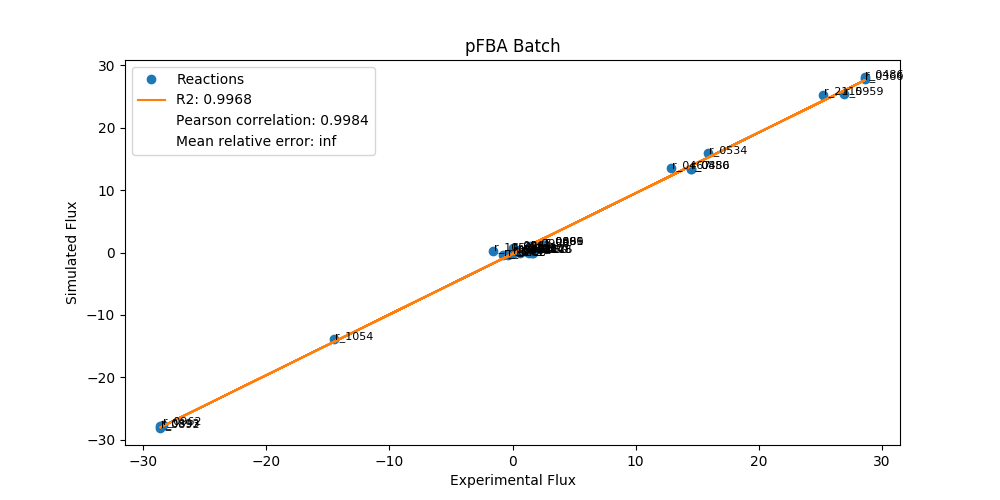
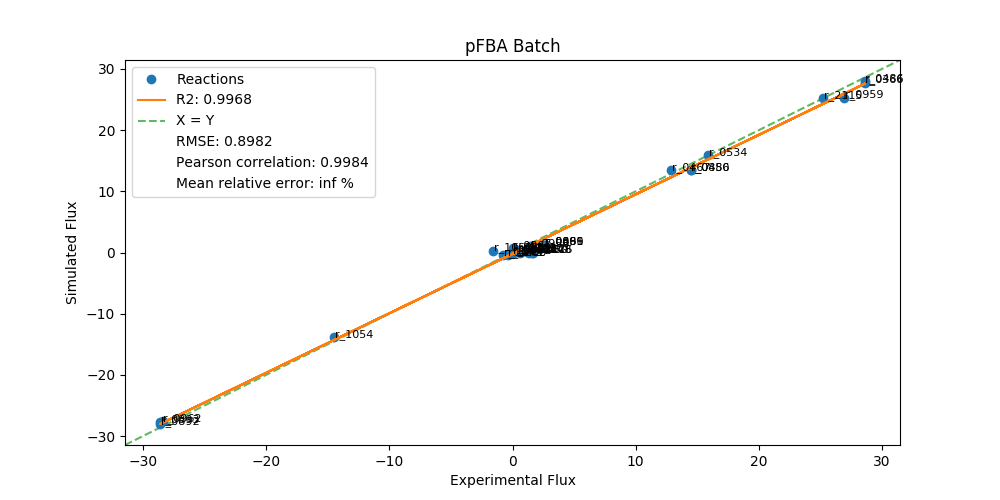
Updated report for case 9.

diff --git a/case_9.py b/case_9.py
@@ -102,30 +102,30 @@ class Case9 (PhenomenalySim):
 
         return res, df_exp_sim, df_exp_sim_errors
 
-    def plotExpVsSim (self, absRelErrorDataset, xlab = 'Experimental Flux', ylab = 'Simulated Flux', title = 'Wild Type', label_adjust = 0.05, save_fig_path = None):
-        plt.rcParams["figure.figsize"] = (10,5)
-
-        x = absRelErrorDataset.ix[:,0]
-        y = absRelErrorDataset.ix[:,1]
-        react_IDs = list(absRelErrorDataset.index)
-        slope, intercept, r_value, p_value, std_err = linregress(x, y)
-        line = [slope * x + intercept for x in x]
-        meanRelErr = absRelErrorDataset.ix[:,3].mean()
-        corr = x.corr(y)
-
-        plt.plot(x, y, 'o', x, line)
-        for ind, react_ID in enumerate(react_IDs):
-            plt.annotate(react_ID, (x[ind], y[ind]), fontsize = 8, xytext = (x[ind] + label_adjust, y[ind] + label_adjust))
-
-        plt.ylabel(ylab)
-        plt.xlabel(xlab)
-        plt.title(title)
-        plt.plot([], [], ' ') # To show correlation in legend
-        plt.plot([], [], ' ') # To show mean relative error in legend
-        plt.legend(['Reactions', 'R2: %.4f' % r_value**2, 'Pearson correlation: %.4f' % corr, 'Mean relative error: %.4f' % meanRelErr])
-
-        if save_fig_path is not None:
-            plt.savefig(save_fig_path)
+    # def plotExpVsSim (self, absRelErrorDataset, xlab = 'Experimental Flux', ylab = 'Simulated Flux', title = 'Wild Type', label_adjust = 0.05, save_fig_path = None):
+    #     plt.rcParams["figure.figsize"] = (10,5)
+    #
+    #     x = absRelErrorDataset.ix[:,0]
+    #     y = absRelErrorDataset.ix[:,1]
+    #     react_IDs = list(absRelErrorDataset.index)
+    #     slope, intercept, r_value, p_value, std_err = linregress(x, y)
+    #     line = [slope * x + intercept for x in x]
+    #     meanRelErr = absRelErrorDataset.ix[:,3].mean()
+    #     corr = x.corr(y)
+    #
+    #     plt.plot(x, y, 'o', x, line)
+    #     for ind, react_ID in enumerate(react_IDs):
+    #         plt.annotate(react_ID, (x[ind], y[ind]), fontsize = 8, xytext = (x[ind] + label_adjust, y[ind] + label_adjust))
+    #
+    #     plt.ylabel(ylab)
+    #     plt.xlabel(xlab)
+    #     plt.title(title)
+    #     plt.plot([], [], ' ') # To show correlation in legend
+    #     plt.plot([], [], ' ') # To show mean relative error in legend
+    #     plt.legend(['Reactions', 'R2: %.4f' % r_value**2, 'Pearson correlation: %.4f' % corr, 'Mean relative error: %.4f' % meanRelErr])
+    #
+    #     if save_fig_path is not None:
+    #         plt.savefig(save_fig_path)
 
     def testO2EthanolProd (self, g_knockout = None, react_id = 'r_2115', cs = 'glucose', range_o2 = list(np.arange(-20, 0, 2))):
         res = {}
@@ -221,13 +221,13 @@ if __name__ == '__main__':
     # plt.close('all')
 
     #FBA
-    c_fba_res, c_fba_exp_sim, c_fba_exp_sim_errors = case9.simulationPipeline(c_exp_df, cs = 'chemostat', type = 'fba', res_exists = False, fname = 'Results/Case 9/res_fba_chemostat_case9.sav')
+    c_fba_res, c_fba_exp_sim, c_fba_exp_sim_errors = case9.simulationPipeline(c_exp_df, cs = 'chemostat', type = 'fba', res_exists = True, fname = 'Results/Case 9/res_fba_chemostat_case9.sav')
     c_fba_exp_sim_errors = case9.getDFWithoutExtremeFluxes(c_fba_exp_sim_errors) #without extreme fluxes (for plotting)
     case9.plotExpVsSim(c_fba_exp_sim_errors, save_fig_path = 'Results/Case 9/c_fba_exp_sim_plot.png', title = 'FBA Chemostat')
     plt.close('all')
 
     #pFBA 0.73 r2 com o2_lb = 0.52
-    c_pfba_res, c_pfba_exp_sim, c_pfba_exp_sim_errors = case9.simulationPipeline(c_exp_df, cs = 'chemostat', type = 'pfba', res_exists = False, fname = 'Results/Case 9/res_pfba_chemostat_case9.sav')
+    c_pfba_res, c_pfba_exp_sim, c_pfba_exp_sim_errors = case9.simulationPipeline(c_exp_df, cs = 'chemostat', type = 'pfba', res_exists = True, fname = 'Results/Case 9/res_pfba_chemostat_case9.sav')
     case9.plotExpVsSim(c_pfba_exp_sim_errors, save_fig_path = 'Results/Case 9/c_pfba_exp_sim_plot.png', title = 'pFBA Chemostat')
     plt.close('all')
 
@@ -235,4 +235,4 @@ if __name__ == '__main__':
     # case9.getMetaboliteSummaryWithNames('s_0727', c_pfba_res)
 
     #FVA
-    c_fva_res, c_fva_exp_sim, _ = case9.simulationPipeline(c_exp_df, cs = 'chemostat', type = 'fva', res_exists = False, fname = 'Results/Case 9/res_fva_chemostat_case9.sav')
+    c_fva_res, c_fva_exp_sim, _ = case9.simulationPipeline(c_exp_df, cs = 'chemostat', type = 'fva', res_exists = True, fname = 'Results/Case 9/res_fva_chemostat_case9.sav')

diff --git a/case9_jnotebook.py b/case9_jnotebook.py
@@ -87,7 +87,6 @@ b_text = """\
 
 b_fba_datasets = """\
 b_exp_df = case9.getColumnWithoutNAs(exp_dataset, 0, 'X')
-# O2 flux estimation not possible (ethanol flux of 0 independently of O2 flux)
 
 b_fba_res, b_fba_exp_sim, b_fba_exp_sim_errors = case9.simulationPipeline(b_exp_df, cs = 'glucose', type = 'fba', res_exists = True, fname = 'Results/Case 9/res_fba_batch_case9.sav')
 pd.concat([reactions, b_fba_exp_sim_errors], axis = 1, join = 'inner')
@@ -112,7 +111,6 @@ c_text = """\
 
 c_fba_datasets = """\
 c_exp_df = case9.getColumnWithoutNAs(exp_dataset, 1, 'X')
-# O2 flux estimation not possible (ethanol flux of 0 independently of O2 flux)
 
 c_fba_res, c_fba_exp_sim, c_fba_exp_sim_errors = case9.simulationPipeline(c_exp_df, cs = 'glucose', type = 'fba', res_exists = True, fname = 'Results/Case 9/res_fba_chemostat_case9.sav')
 pd.concat([reactions, c_fba_exp_sim_errors], axis = 1, join = 'inner') #Plot not showing r_0302
